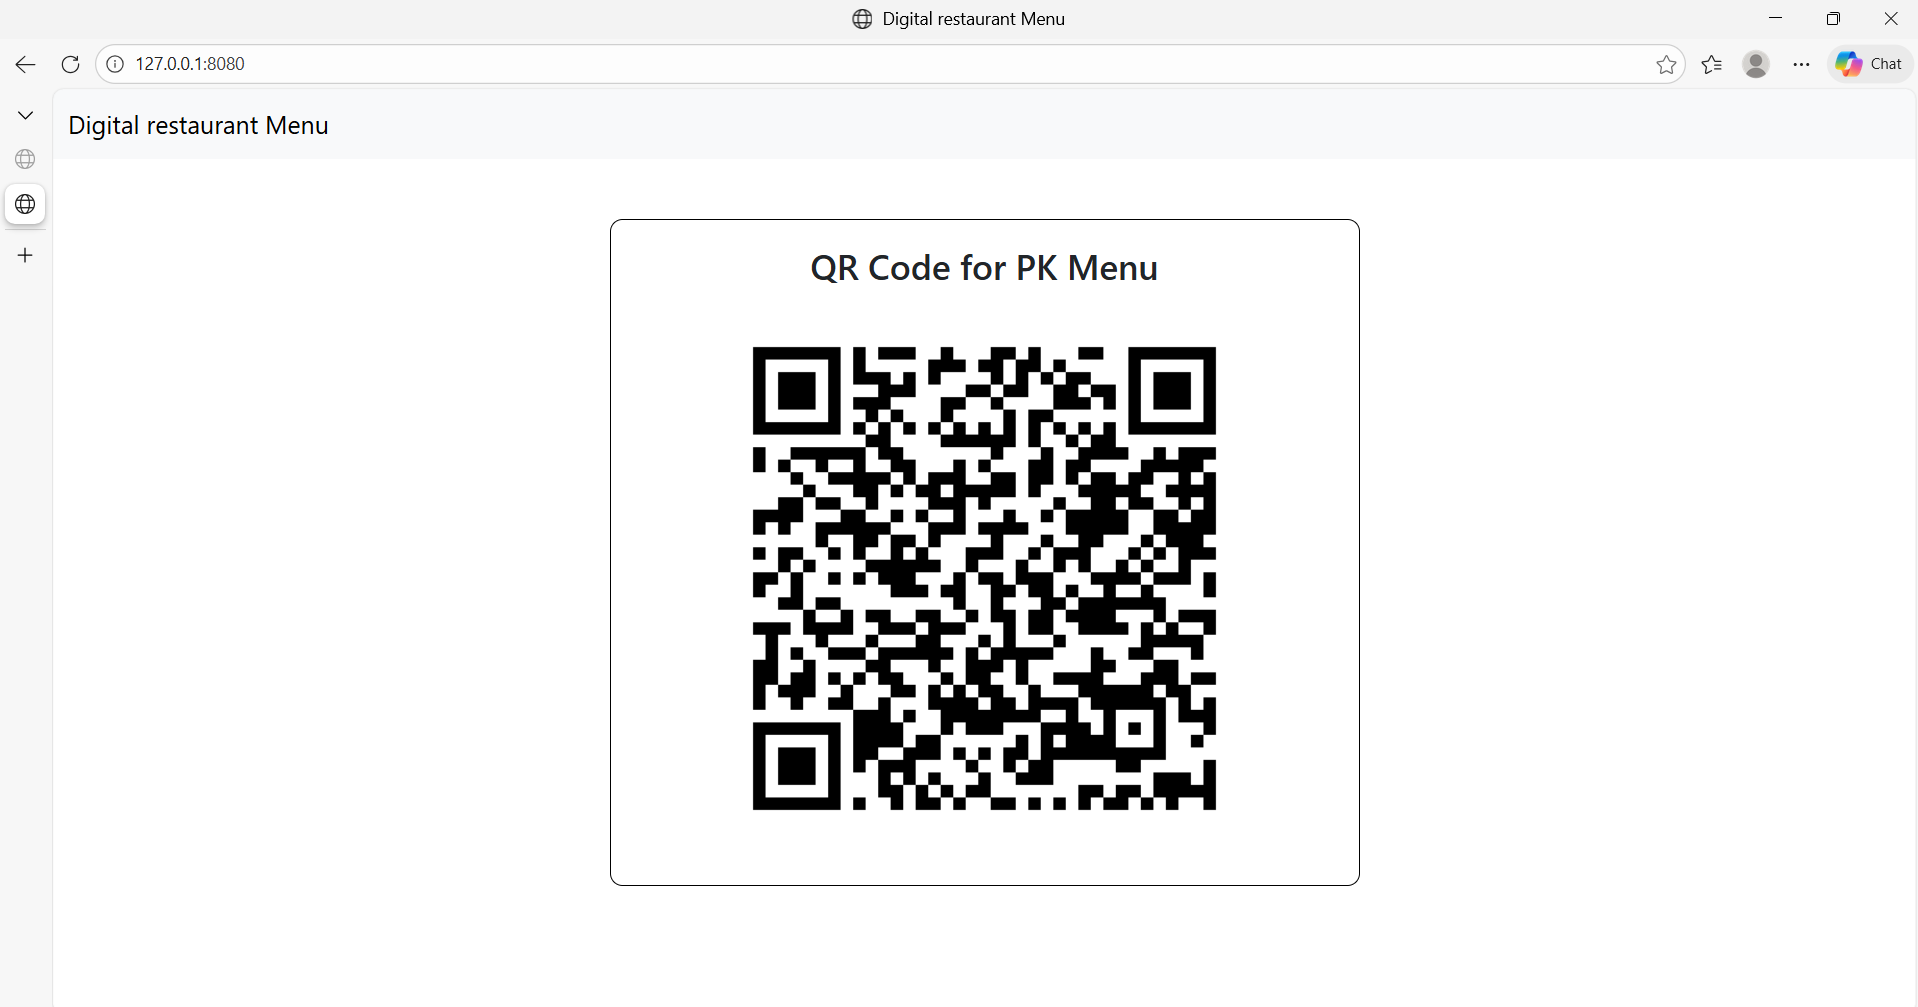
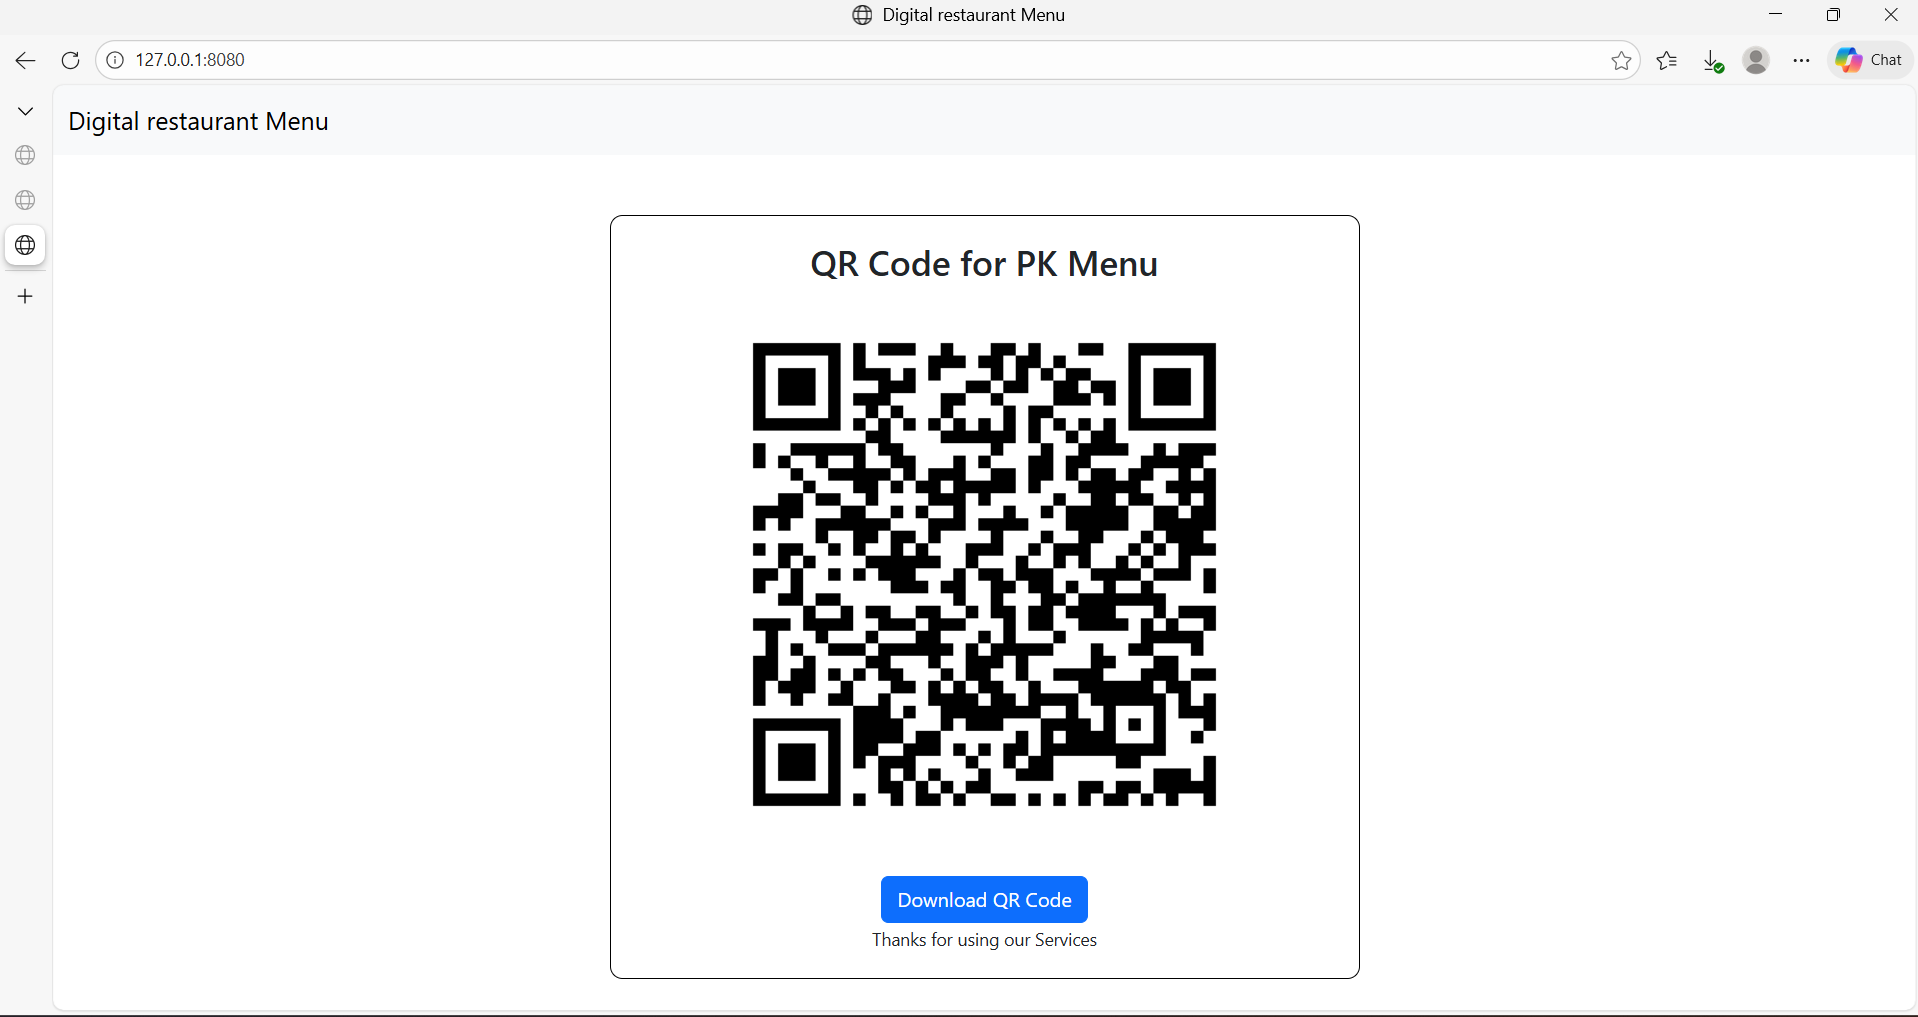
download function added

diff --git a/restaurent/templates/qr_code_result.html b/restaurent/templates/qr_code_result.html
@@ -15,10 +15,13 @@
             <a class="navbar-brand" href="#">Digital restaurant Menu</a>
         </div>  
     </nav>
-
-     
     <div class="container mt-5 align-items-center text-center" style="width:600px; border:1px solid black; padding:20px; border-radius:10px;">
         <h3>QR Code for {{ res_name }} Menu</h3>
-        <img src="{{ qr_image_url }}" alt="QR Code">
+        <img  src="{{ qr_image_url }}" alt="QR Code">
+        <div class="mt-3">
+            <a href="{% url 'generate_qr_code' %}" download="{{file_name}}" class="btn btn-primary">Download QR Code</a>
+            <br>
+            <small>Thanks for using our Services</small>
+
 </body>
 </html>
